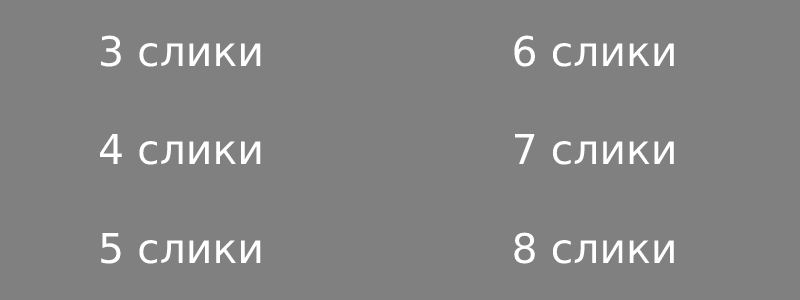
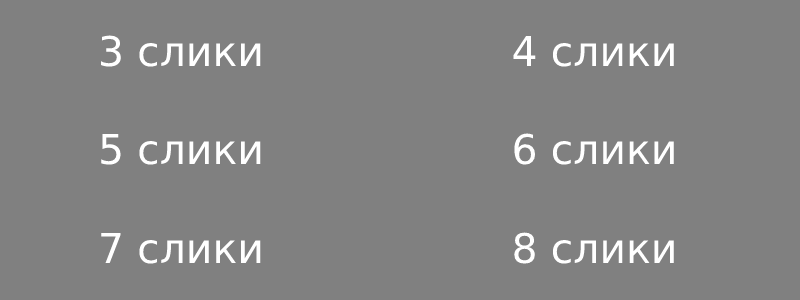
touch

diff --git a/src/Scores.js b/src/Scores.js
@@ -16,19 +16,19 @@ Memory.Scores.prototype = {
 		var title = this.add.image(500, 20, 'scoreTitle');
 		title.anchor.set(0.5, 0);
 		
-		var s1 = this.add.image(50, 120, 'scoreTiny');
-		var s2 = this.add.image(50, 225, 'scoreMed1');
-		var s3 = this.add.image(50, 330, 'scoreLarge');
+		var s1 = this.add.image(100, 120, 'scoreTiny');
+		var s2 = this.add.image(100, 225, 'scoreMed1');
+		var s3 = this.add.image(100, 330, 'scoreLarge');
 		var s4 = this.add.image(550, 120, 'scoreSmall');
 		var s5 = this.add.image(550, 225, 'scoreMed2');
 		var s6 = this.add.image(550, 330, 'scoreHuge');
 		
-		s1Text = this.add.text(225, 135, localStorage["4x3score"], {font: "64px Arial", fill: "#ffffff"});
-		s2Text = this.add.text(410, 250, localStorage["5x4score"], {font: "64px Arial", fill: "#ffffff"});
-		s3Text = this.add.text(265, 345, localStorage["7x4score"], {font: "64px Arial", fill: "#ffffff"});
-		s4Text = this.add.text(760, 145, localStorage["4x4score"], {font: "64px Arial", fill: "#ffffff"});
-		s5Text = this.add.text(920, 248, localStorage["6x4score"], {font: "64px Arial", fill: "#ffffff"});
-		s6Text = this.add.text(755, 350, localStorage["8x4score"], {font: "64px Arial", fill: "#ffffff"});
+		s1Text = this.add.text(300, 135, localStorage["4x3score"], {font: "64px Arial", fill: "#ffffff"});
+		s2Text = this.add.text(300, 240, localStorage["5x4score"], {font: "64px Arial", fill: "#ffffff"});
+		s3Text = this.add.text(320, 347, localStorage["7x4score"], {font: "64px Arial", fill: "#ffffff"});
+		s4Text = this.add.text(770, 147, localStorage["4x4score"], {font: "64px Arial", fill: "#ffffff"});
+		s5Text = this.add.text(770, 240, localStorage["6x4score"], {font: "64px Arial", fill: "#ffffff"});
+		s6Text = this.add.text(770, 350, localStorage["8x4score"], {font: "64px Arial", fill: "#ffffff"});
 		
 		if (Memory.supportsStorage()) {
 			var clearButton = this.add.button(525, 450, 'clearButton', function() {Memory.clearStorage(); this.refreshText()}, this);

diff --git a/src/About.js b/src/About.js
@@ -13,7 +13,7 @@ Memory.About.prototype = {
 						 "Card icons by Lorc, sbed, and skoll - game-icons.net\n\n" +
 						 "Built using the Phaser engine";
 						 
-		var style = {font: "24px Arial", fill: "#617ddf"};
+		var style = {font: "24px Arial", fill: "black"};
 
 		var text = this.add.text(50, 50, textString, style);
 

diff --git a/src/Game.js b/src/Game.js
@@ -49,7 +49,7 @@ Memory.Game.prototype = {
 		var background = this.add.sprite(0, 0, 'gameBkgd');
 		movesText = this.add.text(215, 1, "0", {
 			font: "54px Arial",
-			fill: "#617edf",
+			fill: "white",
 			fontWeight: "bold"
 		});
 
